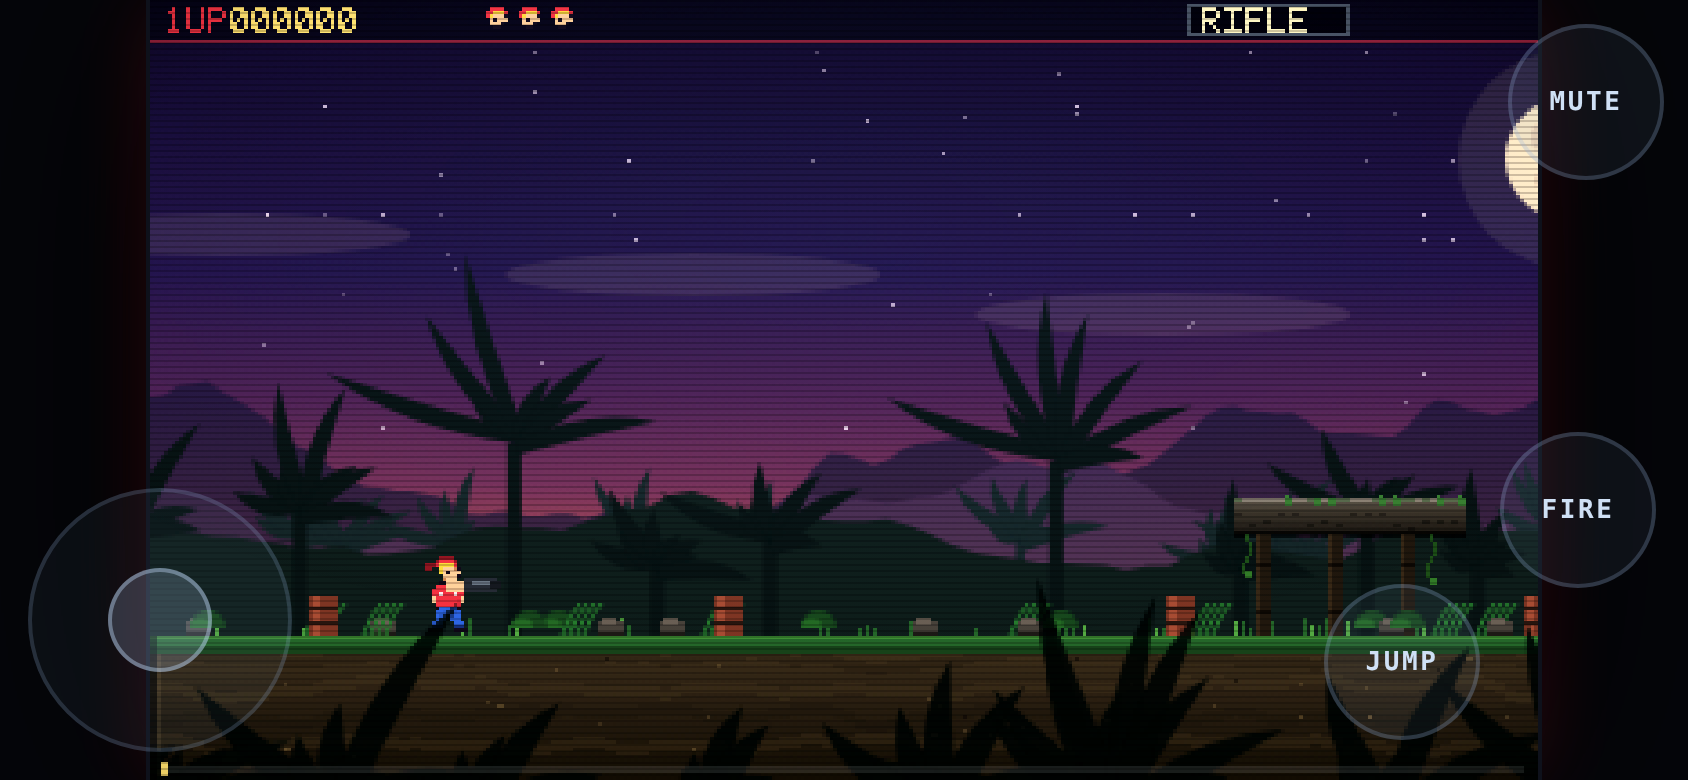
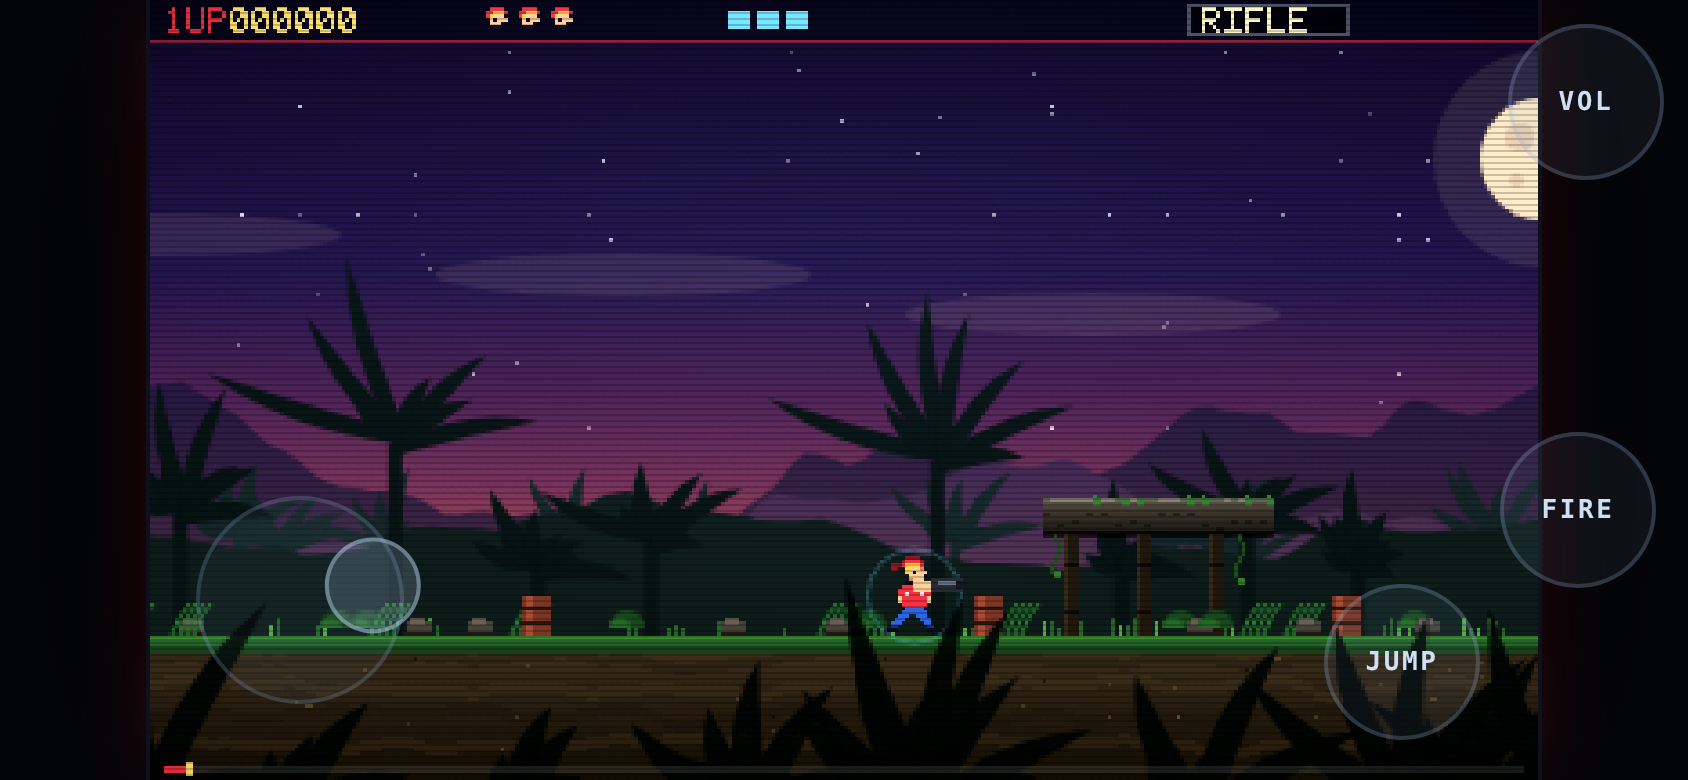
Rework the thumbstick: floating origin, weighted sectors, hysteresis
Measured against the old fixed-centre stick, all four suggestions applied.

- Floating origin. The ring now centres on wherever the thumb lands inside an
  invisible lower-left activation zone, instead of sitting at a fixed point.
  Landing is neutral: 0/25 sampled landings commit a direction, against 20/21
  before, and 0/25 trigger DOWN (prone) against 8/21 — that accidental prone was
  most of what made it feel awkward.
- Weighted sectors, replacing the uniform 45-degree octants. Horizontal is
  widest (running is the common case), the 45 aim stays generous, up/down are
  narrower but still comfortable. Measured widths: 62/58 horizontal, 38-40
  diagonal, 42 vertical.
- Hysteresis: a held direction survives until the thumb is 8 degrees past the
  sector edge. Holding a shallow angle with a 4px tremor went from 16 direction
  changes per 24 samples to 0, including right on a boundary.
- Deadzone 15 -> 18px, which costs nothing now that it is measured from the
  thumb rather than a fixed centre.

Two knock-ons from earlier work had to be handled:

- padLeft was derived from the stick's fixed rect, which no longer exists. It
  now covers a thumb resting anywhere in the left half of the zone, capped at
  28% of the playfield, and still grows with the safe-area inset.
- respawn() placed the player at cam.x+30, which the larger padLeft clamp then
  shoved off whichever platform the spawn had just picked. It now spawns past
  padLeft.
[…]

diff --git a/contra/index.html b/contra/index.html
@@ -38,10 +38,14 @@
   body.touch #foot{display:none}
   body.touch #pad{display:block;position:fixed;inset:0;z-index:5;pointer-events:none}
   #pad .z{position:absolute;pointer-events:auto;touch-action:none}
-  #stick{left:calc(env(safe-area-inset-left) + 14px);bottom:calc(env(safe-area-inset-bottom) + 14px);
-    width:132px;height:132px;border-radius:50%;background:rgba(120,150,190,.07);
-    border:2px solid rgba(150,180,220,.20)}
-  #nub{position:absolute;left:50%;top:50%;width:52px;height:52px;margin:-26px 0 0 -26px;border-radius:50%;
+  /* invisible activation area — the thumb never has to find a target */
+  #stickZone{left:env(safe-area-inset-left);bottom:0;width:34%;height:62%}
+  /* the ring is purely visual: it floats to wherever the thumb lands */
+  #stick{position:fixed;width:104px;height:104px;border-radius:50%;pointer-events:none;
+    background:rgba(120,150,190,.07);border:2px solid rgba(150,180,220,.20);
+    opacity:.5;transition:opacity .12s linear}
+  #stick.live{opacity:1}
+  #nub{position:absolute;left:50%;top:50%;width:48px;height:48px;margin:-24px 0 0 -24px;border-radius:50%;
     background:rgba(180,205,240,.20);border:2px solid rgba(190,215,245,.42);pointer-events:none;
     transition:transform .05s linear}
   #pad .b{width:78px;height:78px;border-radius:50%;display:flex;align-items:center;justify-content:center;
@@ -63,7 +67,8 @@
 <div id="stage"><canvas id="cv" width="384" height="216"></canvas><div id="glow"></div><div id="crt"></div></div>
 <div id="foot"><b>&larr;&uarr;&darr;&rarr;</b> move / aim &nbsp;·&nbsp; <b>Z</b> fire &nbsp;·&nbsp; <b>X</b> jump &nbsp;·&nbsp; <b>Enter</b> start / pause &nbsp;·&nbsp; <b>M</b> mute</div>
 <div id="pad">
-  <div class="z" id="stick"><div id="nub"></div></div>
+  <div class="z" id="stickZone"></div>
+  <div id="stick"><div id="nub"></div></div>
   <div class="z b" id="bFire">FIRE</div>
   <div class="z b" id="bJump">JUMP</div>
   <div class="z b" id="bMute">VOL</div>
@@ -647,8 +652,9 @@ const WEAPONS={
 let player, bullets=[], ebullets=[], enemies=[], pickups=[], parts=[], floats=[];
 let cam={x:0,y:0,lock:false}, shake=0, hitstop=0, frame=0;
 /* playfield width (in game px) hidden behind the on-screen stick — measured in fit(),
-   since the safe-area inset pushes the stick further in on a notched phone */
-let padLeft=0;
+   since the safe-area inset pushes the stick further in on a notched phone.
+   RING is the stick's radius; it lives out here because fit() needs it too. */
+let padLeft=0; const RING=52;
 let score=0, lives=3, weapon='R', stageTime=0;
 let boss=null, bossActive=false, bossDeadT=0;
 let state='TITLE', stateT=0, fade=0, konamiOn=false;
@@ -868,8 +874,10 @@ function killPlayer(fell){
 }
 function respawn(){
   const p=player;
-  let x=clamp(cam.x+30, 0, LVL_W-30);
-  const gp=onGroundAt(x+5) || onGroundAt(cam.x+80);
+  /* spawn past padLeft, else the left clamp in updatePlayer shoves the player off
+     whichever platform we just picked here */
+  let x=clamp(cam.x+30+padLeft, 0, LVL_W-30);
+  const gp=onGroundAt(x+5) || onGroundAt(cam.x+80+padLeft);
   player=mkPlayer(gp?clamp(x,gp.x+4,gp.x+gp.w-14):x, -30);
   player.inv=150;
   weapon='R';
@@ -1588,37 +1596,61 @@ const isTouch = ('ontouchstart' in window) || navigator.maxTouchPoints>0 ||
   (window.matchMedia && matchMedia('(pointer:coarse)').matches);
 document.body.className = isTouch ? 'touch' : 'no-touch';
 if(isTouch){
-  const stick=document.getElementById('stick'), nub=document.getElementById('nub'),
-        DIRS=['l','r','u','d'], DEAD=15;
-  /* octant -> direction pair, indexed by round(angle / 45deg) from -4..4 */
-  const OCT={'0':['r'],'1':['r','d'],'2':['d'],'3':['l','d'],'4':['l'],
-             '-4':['l'],'-3':['l','u'],'-2':['u'],'-1':['r','u']};
-  let stickId=null, cx=0, cy=0;
+  const zone=document.getElementById('stickZone'), stick=document.getElementById('stick'),
+        nub=document.getElementById('nub'), DIRS=['l','r','u','d'],
+        DEAD=18, HYST=8;
+  /* Eight sectors as [centre deg, half-width deg, keys], y down so 90 = down.
+     Widths are deliberately uneven: running left/right is the common case and gets
+     the widest sectors, the 45 aim stays generous, straight up/down are narrower
+     but still comfortably reachable. Widths tile 360 exactly. */
+  const SEC=[[0,30,['r']], [49,19,['r','d']], [90,22,['d']], [131,19,['l','d']],
+             [180,30,['l']], [229,19,['l','u']], [270,22,['u']], [311,19,['r','u']]];
+  let stickId=null, ox=0, oy=0, sec=-1;
   const clearDirs=()=>{ for(const d of DIRS) keys[d]=false; };
+  const angDiff=(a,b)=>{ let d=(a-b)%360; if(d>180)d-=360; if(d<-180)d+=360; return d; };
+  /* hysteresis: hold the current sector until the thumb is HYST degrees past its
+     edge, so a tremor near a boundary can't strobe between two directions */
+  function sectorFor(deg){
+    if(sec>=0 && Math.abs(angDiff(deg,SEC[sec][0]))<=SEC[sec][1]+HYST) return sec;
+    for(let i=0;i<8;i++) if(Math.abs(angDiff(deg,SEC[i][0]))<=SEC[i][1]) return i;
+    return sec;
+  }
+  const ringTo=(x,y)=>{ stick.style.left=(x-RING)+'px'; stick.style.top=(y-RING)+'px'; };
+  function ringHome(){
+    const z=zone.getBoundingClientRect();
+    ringTo(z.left+RING+14, z.bottom-RING-14);
+  }
   function aim(dx,dy){
     clearDirs();
     const m=Math.hypot(dx,dy);
-    if(m<DEAD){ nub.style.transform='translate(0,0)'; return; }
-    for(const d of OCT[String(Math.round(Math.atan2(dy,dx)/(Math.PI/4)))]){ keys[d]=true; pressed[d]=true; }
+    if(m<DEAD){ sec=-1; nub.style.transform='translate(0,0)'; return; }
+    sec=sectorFor((Math.atan2(dy,dx)*180/Math.PI+360)%360);
+    if(sec>=0) for(const d of SEC[sec][2]){ keys[d]=true; pressed[d]=true; }
     const k=Math.min(1,m/44)*40/m;
     nub.style.transform='translate('+(dx*k).toFixed(1)+'px,'+(dy*k).toFixed(1)+'px)';
   }
-  stick.addEventListener('touchstart',e=>{
+  zone.addEventListener('touchstart',e=>{
     e.preventDefault(); if(state!=='PLAY') doStart();
-    const t=e.changedTouches[0], r=stick.getBoundingClientRect();
-    stickId=t.identifier; cx=r.left+r.width/2; cy=r.top+r.height/2; aim(t.clientX-cx,t.clientY-cy);
+    const t=e.changedTouches[0];
+    /* floating origin: the stick centres on wherever the thumb landed, so landing
+       is neutral — no direction until you actually move */
+    stickId=t.identifier; ox=t.clientX; oy=t.clientY; sec=-1;
+    ringTo(ox,oy); stick.classList.add('live');
+    clearDirs(); nub.style.transform='translate(0,0)';
   },{passive:false});
-  stick.addEventListener('touchmove',e=>{
+  zone.addEventListener('touchmove',e=>{
     e.preventDefault();
-    for(const t of e.changedTouches) if(t.identifier===stickId) aim(t.clientX-cx,t.clientY-cy);
+    for(const t of e.changedTouches) if(t.identifier===stickId) aim(t.clientX-ox,t.clientY-oy);
   },{passive:false});
   const dropStick=e=>{
     e.preventDefault();
     for(const t of e.changedTouches) if(t.identifier===stickId){
-      stickId=null; clearDirs(); nub.style.transform='translate(0,0)'; }
+      stickId=null; sec=-1; clearDirs();
+      nub.style.transform='translate(0,0)'; stick.classList.remove('live'); ringHome(); }
   };
-  stick.addEventListener('touchend',dropStick,{passive:false});
-  stick.addEventListener('touchcancel',dropStick,{passive:false});
+  zone.addEventListener('touchend',dropStick,{passive:false});
+  zone.addEventListener('touchcancel',dropStick,{passive:false});
+  ringHome(); addEventListener('resize',ringHome);
 
   function button(id,act){
     const el=document.getElementById(id); let id_=null;
@@ -1659,8 +1691,10 @@ function fit(){
     cv.style.width=(W*s)+'px'; cv.style.height=(H*s)+'px';
     /* how far the stick reaches into the playfield, in game px (getBoundingClientRect
        flushes the layout above, and picks up the safe-area inset for free) */
-    const sr=document.getElementById('stick').getBoundingClientRect(), cr=cv.getBoundingClientRect();
-    padLeft = sr.width ? clamp(Math.round((sr.right-cr.left)/s)+14, 0, Math.round(W*0.25)) : 0;
+    /* the ring floats to the thumb now, so this can't key off a fixed rect. cover a thumb
+       resting anywhere in the left half of the activation zone (inset included) */
+    const zr=document.getElementById('stickZone').getBoundingClientRect(), cr=cv.getBoundingClientRect();
+    padLeft = zr.width ? clamp(Math.round((zr.left+zr.width*0.5+RING-cr.left)/s)+8, 0, Math.round(W*0.28)) : 0;
     return;
   }
   const pad=54;

diff --git a/contra/README.md b/contra/README.md
@@ -38,6 +38,13 @@ left for 8-way movement and aim, **FIRE** and **JUMP** on the right, **VOL** to 
 It is genuine multi-touch, so you can run, aim diagonally and fire at the same time,
 and hold down + JUMP to drop through a ledge. Tap the playfield to start.
 
+The stick uses a **floating origin**: put your thumb down anywhere in the lower-left
+of the screen and the ring centres itself there, so landing is neutral and you never
+have to look for a target. Direction only starts once you move. Sectors are
+**weighted** — running left/right gets the widest arc, the 45° aim stays generous,
+straight up/down are narrower — and a held direction **sticks** until your thumb is
+clearly past the boundary, so a shaky grip can't strobe between two directions.
+
 ![On-screen controls](touch.png)
 
 On a keyboard:
